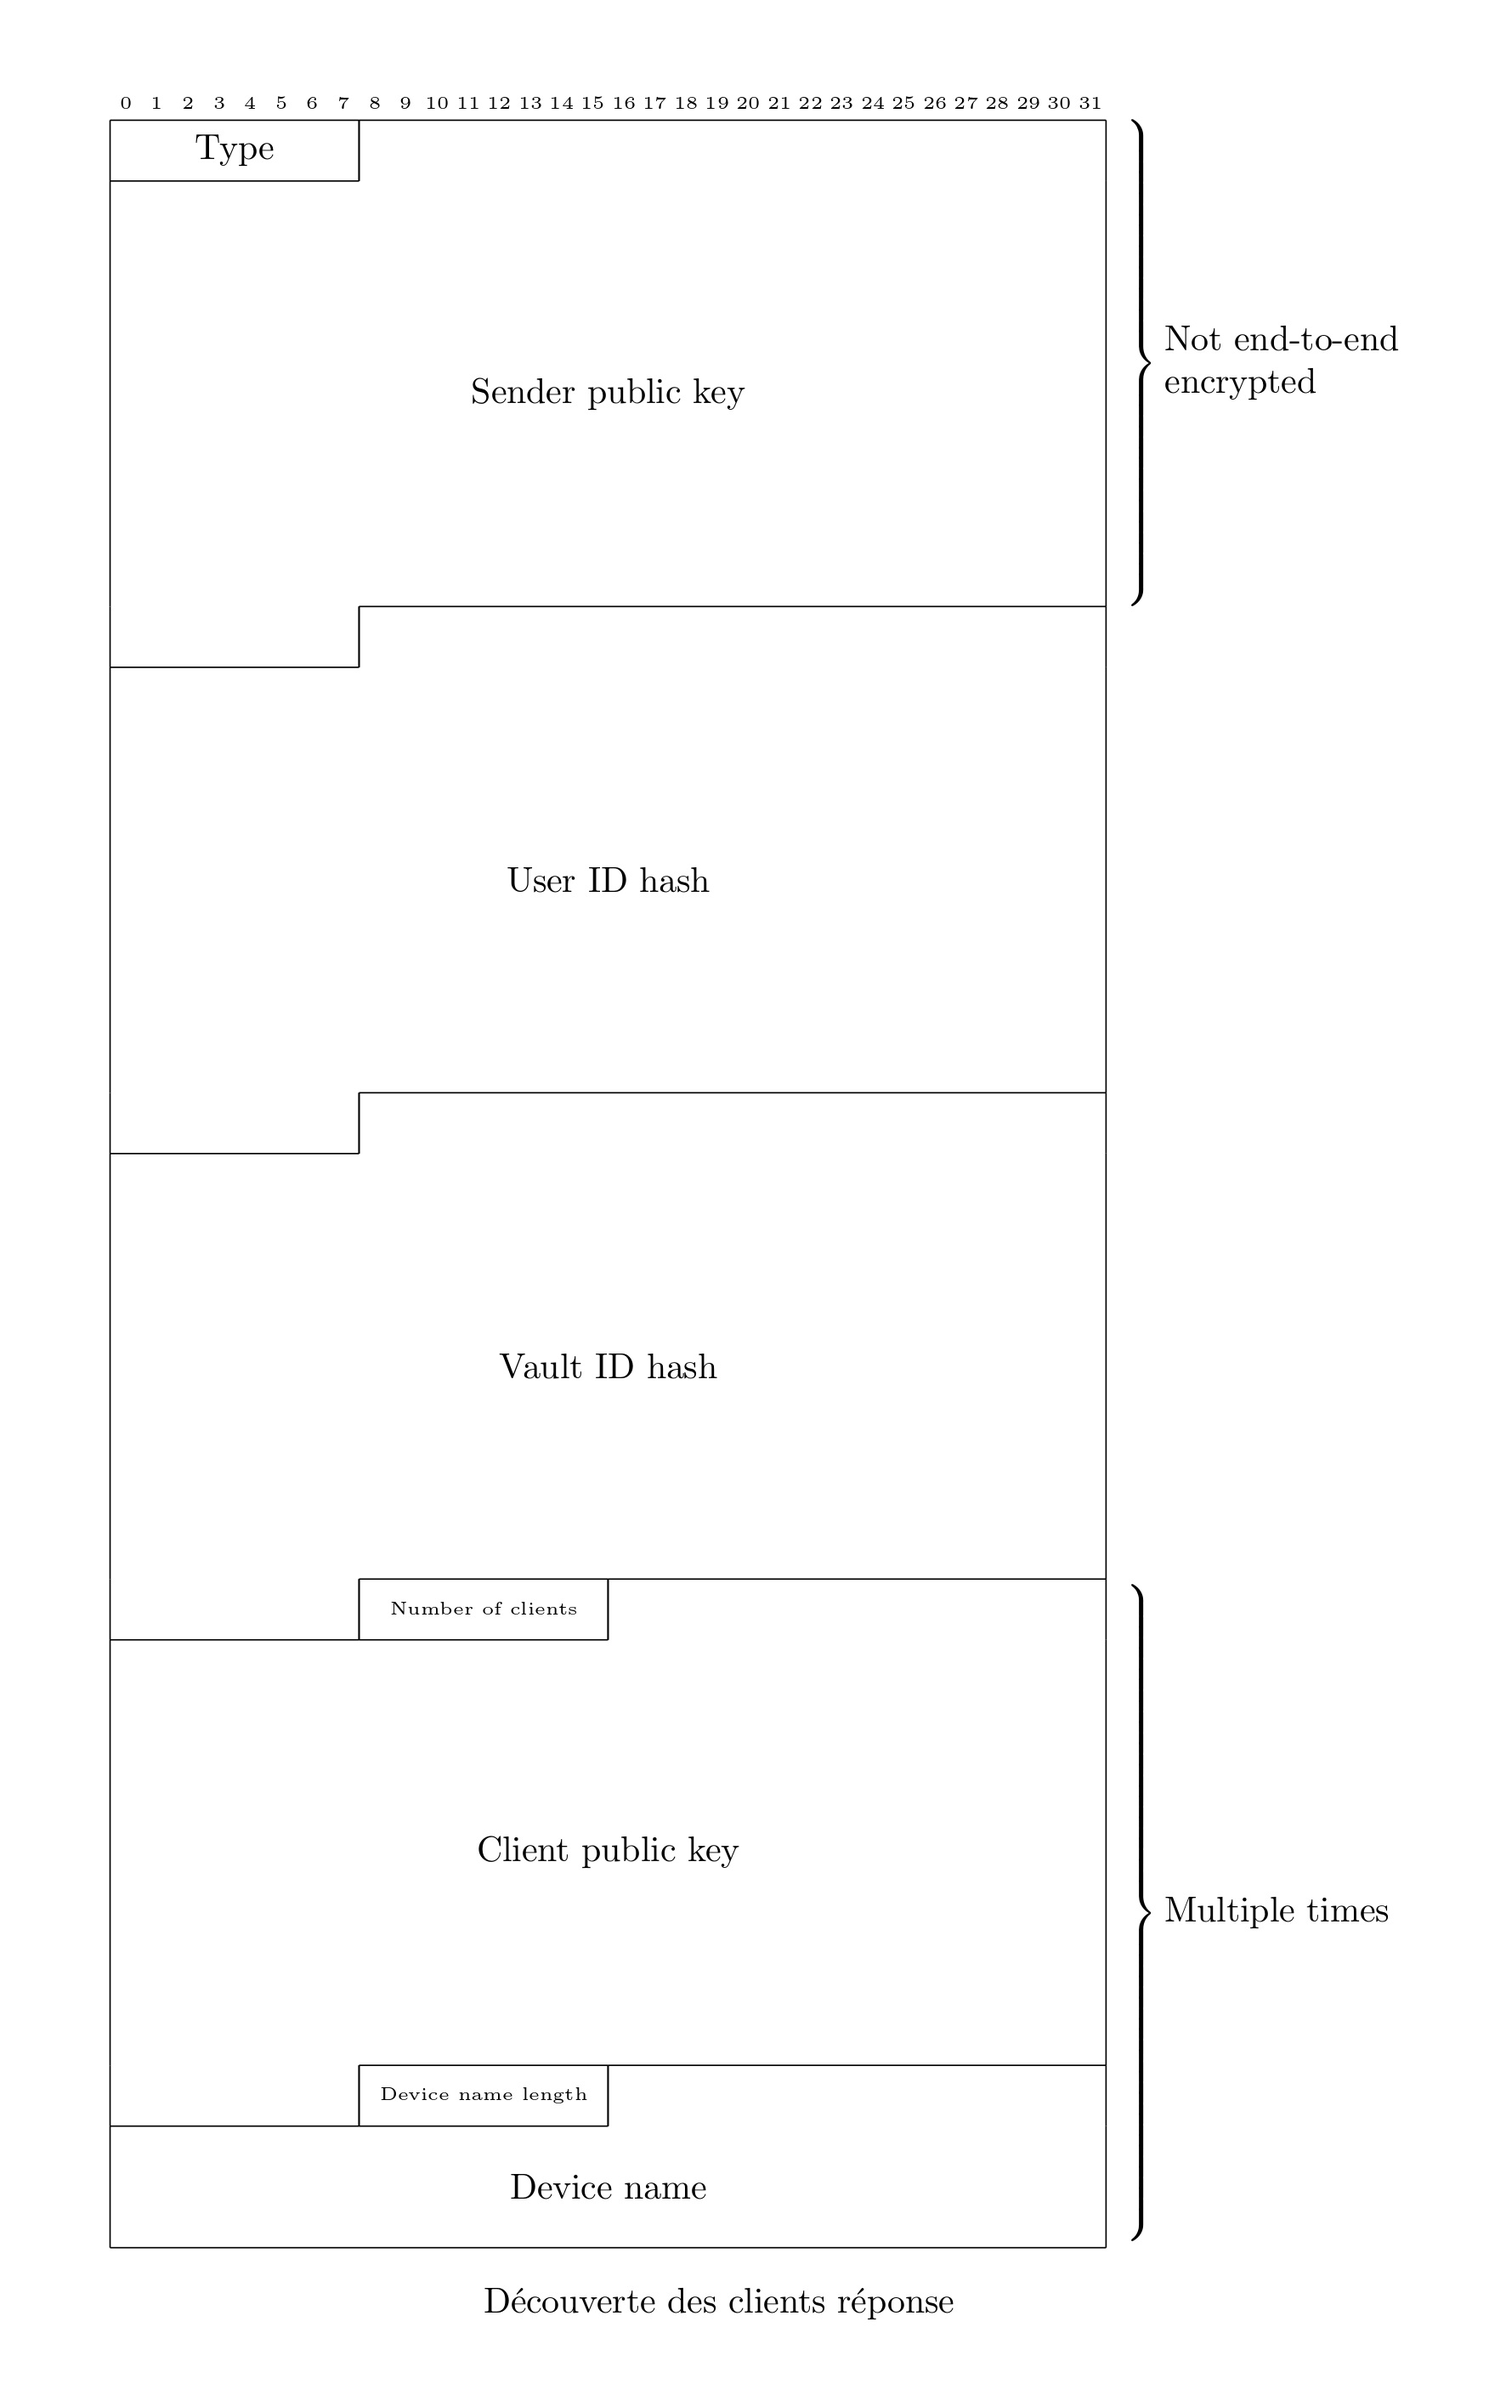
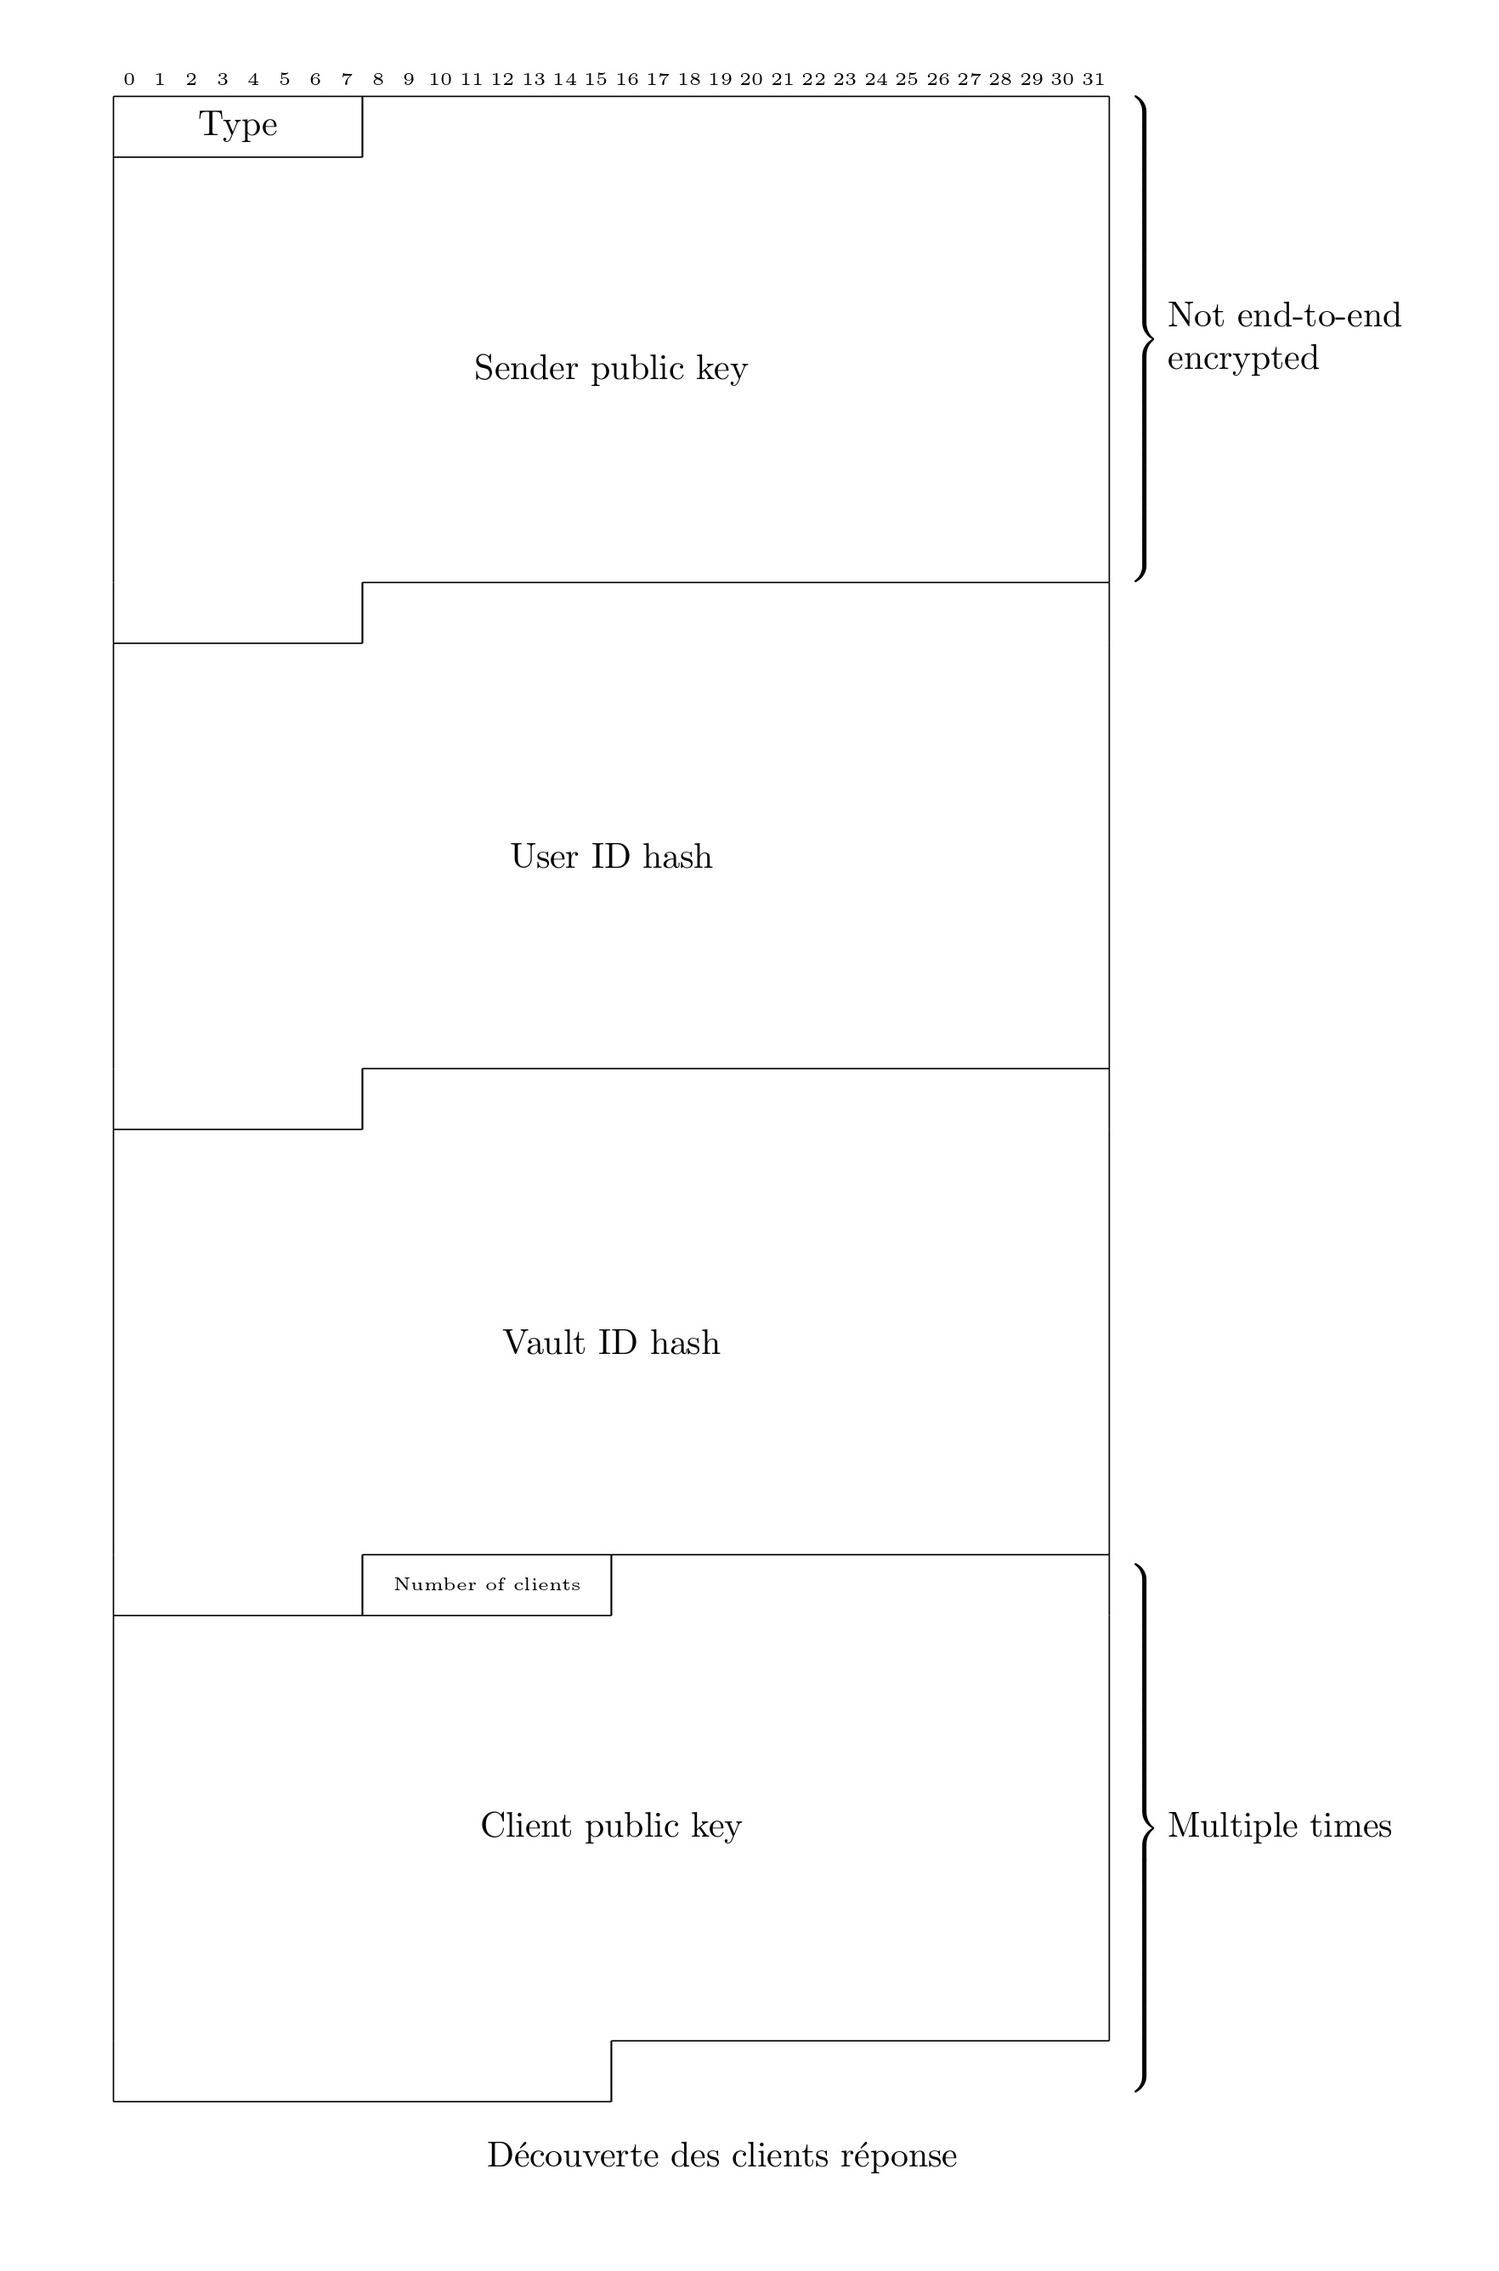
implementation, img & src: new client information message datagram

diff --git a/img/src/frame-format.tex b/img/src/frame-format.tex
@@ -139,13 +139,27 @@
 \bitbox{8}{\tiny Number of clients} 
 \bitbox[tlr]{16}{} \\
 \wordbox[lr]{7}{Client public key} \\
-\bitbox[blr]{8}{} 
-\bitbox{8}{\tiny Device name length}
-\bitbox[tlr]{16}{} \\
-\wordbox[blr]{2}{Device name}
+\bitbox[blr]{16}{}
+\bitbox[tl]{16}{}
 \end{rightwordgroup}
 \end{bytefield}
 \caption*{Découverte des clients réponse}
+\end{figure}
+
+\begin{figure}
+\centering
+\begin{bytefield}{32}
+\bitheader{0-31} \\
+\bitbox{8}{Type}
+\bitbox[tlr]{24}{} \\
+\wordbox[lr]{7}{Register ID hash} \\
+\bitbox[blr]{8}{}
+\bitbox{8}{\tiny Supported pairwise communications}
+\bitbox{8}{\tiny Device name length}
+\bitbox[tlr]{8}{} \\
+\wordbox[blr]{2}{Device name}
+\end{bytefield}
+\caption*{Informations des clients}
 \end{figure}
 
 \begin{figure}

diff --git a/readme/04-FR-implementation.md b/readme/04-FR-implementation.md
@@ -181,14 +181,21 @@ La couche de service du gestionnaire de mot de passe repose sur la couche sessio
     * hachage de l'identifiant du coffre (256 bits)
     * nombre de clients dans le coffre (8 bits)
         * clé publique du client (256 bits)
-        * taille du nom de l'appareil (8 bits)
-        * nom de l'appareil pour l'utilisateur (jusqu'à 255 octets)
 
     ![client-discovery-response-datagram](https://raw.githubusercontent.com/Relex12/Decentralized-Password-Manager/master/img/04-client-discovery-response-datagram.jpg)
 
     > Dans ce message, la clé publique de l'émetteur et le type de message ne sont pas chiffrés de bout en bout. Le reste est chiffré de bout en bout de manière pair-à-pair, ce message doit être stocké plusieurs fois sur le serveur et possède donc une date de péremption plus courte.
 
     > Comme la requête correspondante n'est pas chiffrée et afin de limiter les données exploitables par le serveur, l'utilisateur devra noter le nom de ses appareils depuis l'appareil maître.
+
+* Informations des clients
+    * type de message (8 bits)
+    * hachage de l'identifiant d'enregistrement de l'émetteur du message (256 bits)
+    * communications pair-à-pair supportées (8 bits)
+    * taille du nom de l'appareil (8 bits)
+    * nom de l'appareil pour l'utilisateur (jusqu'à 255 octets)
+
+    ![client-information-datagram](https://raw.githubusercontent.com/Relex12/Decentralized-Password-Manager/master/img/04-client-information-datagram.jpg)
 
 * Mise à jour du coffre
     * type de message (8 bits)
